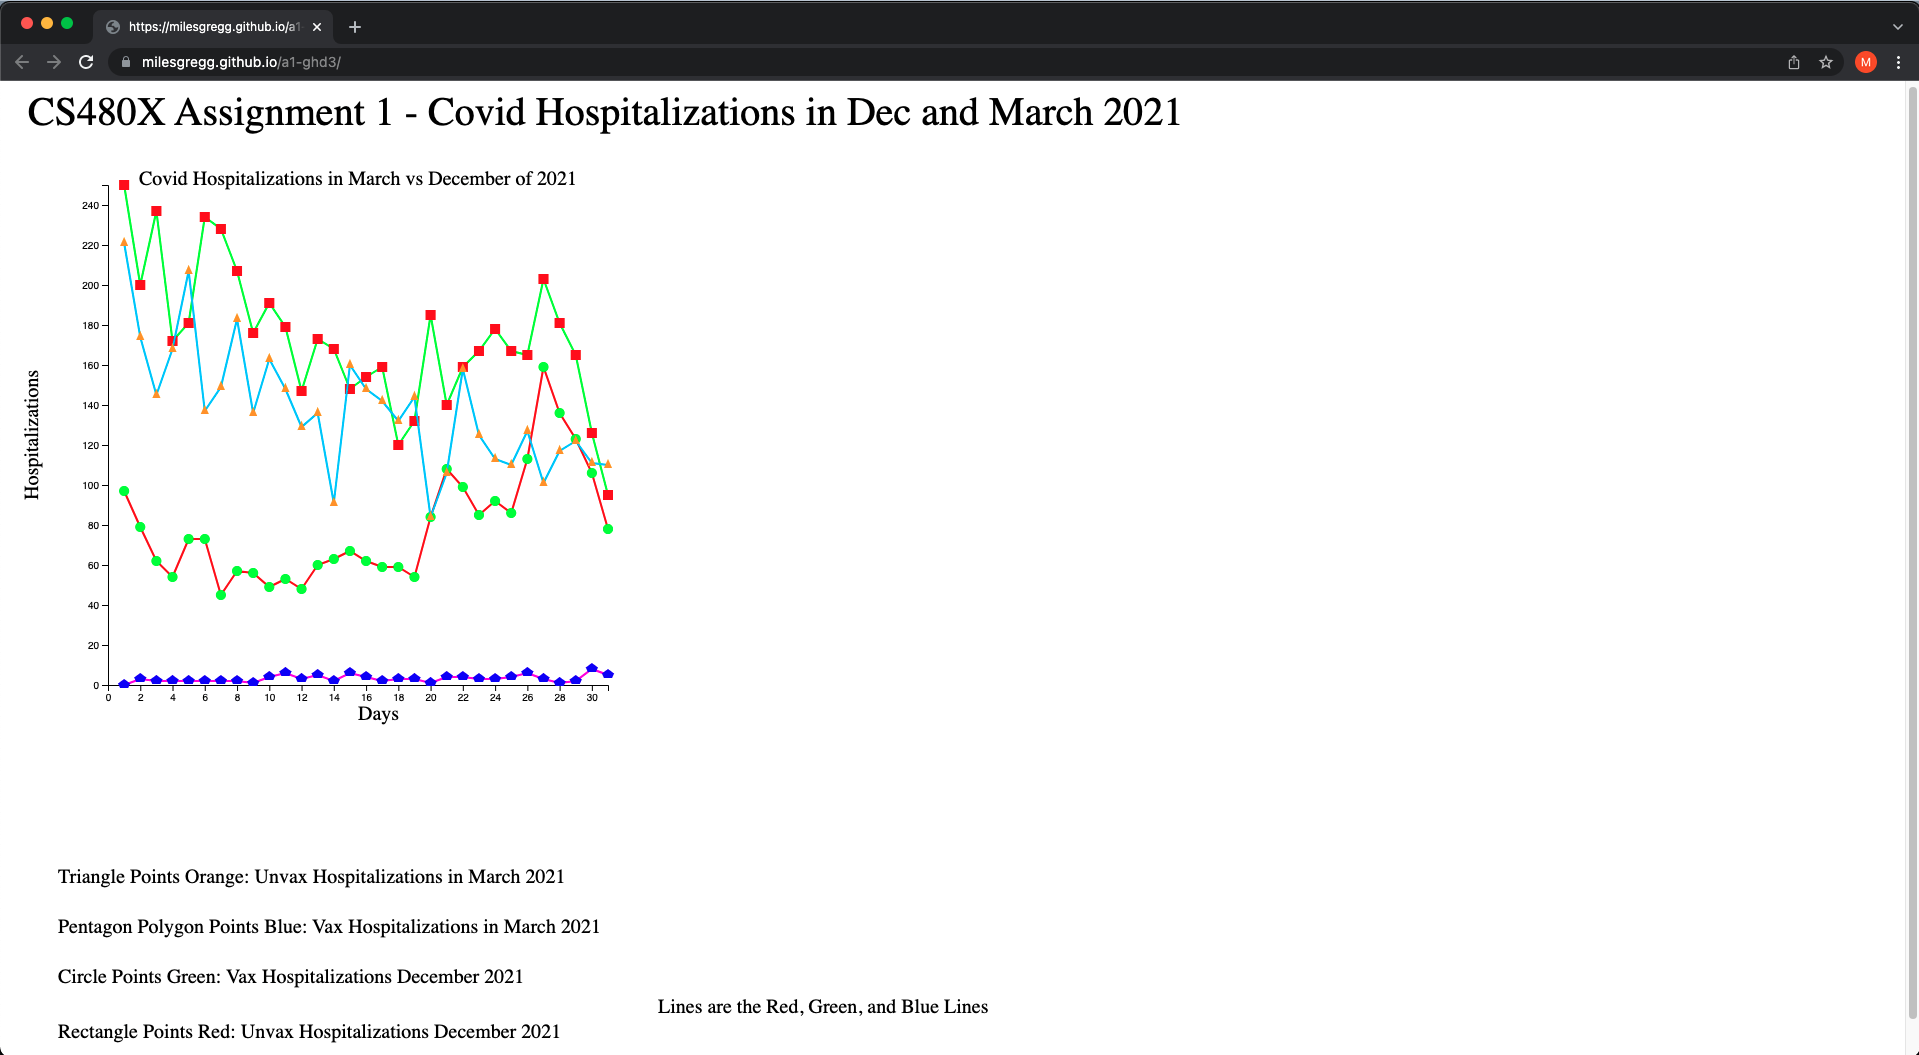
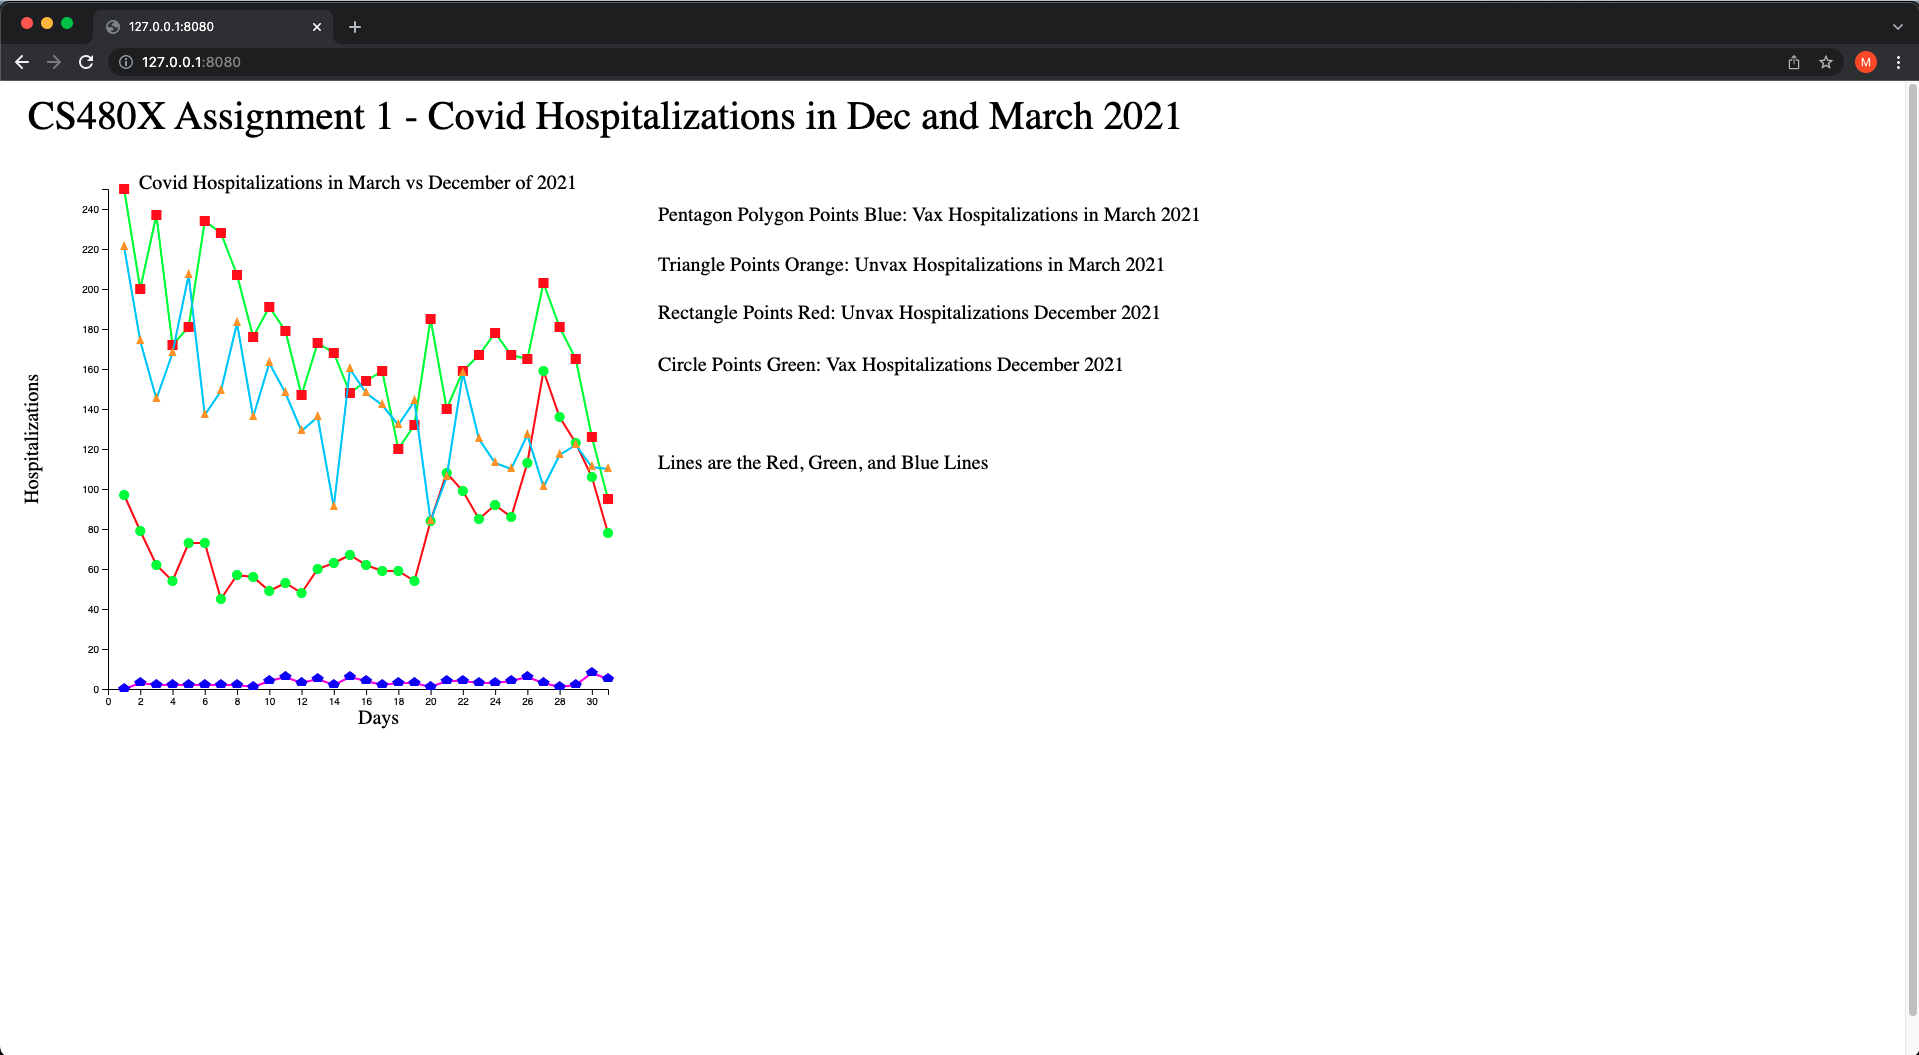
update readme and added pictures

diff --git a/index.html b/index.html
@@ -16,7 +16,7 @@
   var unvax_hos_march = [[1, 221],[2, 174],[3, 145],[4, 168],[5, 207],[6, 137],[7, 149],[8, 183],[9, 136],[10,163],[11,148],[12,129],[13,136],[14,91],[15,160],[16,148],[17,142],[18,132],[19,144],[20,84],[21,106],[22,158],[23,125],[24,113],[25,110],[26,127],[27,101],[28,117],[29,122],[30,111],[31,110]];
 
   var svg = d3.select("svg");
-  var xScaleGraph1 = d3.scaleLinear().domain([0, 31]).range([0, 500])
+  var xScaleGraph1 = d3.scaleLinear().domain([0, 31]).range([0, 500]);
   var yScaleGraph1 = d3.scaleLinear().domain([0, 250]).range([500, 0]);
   var g = svg.append("g").attr("transform", "translate(100, 100)");
 
@@ -150,35 +150,35 @@
   d3.select("svg")
     .append("text")
     .attr("x", 650)
-    .attr("y", window.innerHeight-50+2)
+    .attr("y", 380)
     .attr("font-size", "20")
     .text("Lines are the Red, Green, and Blue Lines");
 
   d3.select("svg")
     .append("text")
-    .attr("x", 50)
-    .attr("y", window.innerHeight-180+2)
+    .attr("x", 650)
+    .attr("y", 180+2)
     .attr("font-size", "20")
     .text("Triangle Points Orange: Unvax Hospitalizations in March 2021");
 
   d3.select("svg")
     .append("text")
-    .attr("x", 50)
-    .attr("y", window.innerHeight-130+2)
+    .attr("x", 650)
+    .attr("y", 130+2)
     .attr("font-size", "20")
     .text("Pentagon Polygon Points Blue: Vax Hospitalizations in March 2021");
 
   d3.select("svg")
     .append("text")
-    .attr("x", 50)
-    .attr("y", window.innerHeight-80+2)
+    .attr("x", 650)
+    .attr("y", 282)
     .attr("font-size", "20")
     .text("Circle Points Green: Vax Hospitalizations December 2021");
 
   d3.select("svg")
     .append("text")
-    .attr("x", 50)
-    .attr("y", window.innerHeight-23)
+    .attr("x", 650)
+    .attr("y", 230)
     .attr("font-size", "20")
     .text("Rectangle Points Red: Unvax Hospitalizations December 2021");
 </script>

diff --git a/README.md b/README.md
@@ -19,10 +19,38 @@ Links
 Technical Achievement Description
 ---
 
-For the techical achievement for this assignment I was successfully able to get data from the California Covid-19 Hospital Data Website: https://data.chhs.ca.gov/dataset/covid-19-hospital-data. This allowed me to get certain data from different months to plot using d3. I plotted the months of March and December of 2021.
+For the techical achievement for this assignment I was successfully able to get data from the California Covid-19 Hospital Data Website: https://data.chhs.ca.gov/dataset/covid-19-hospital-data. This allowed me to get certain data from different months to plot using d3. I plotted Covid-19 data in the state of California for  the months of March and December of 2021. Using Node.js http-server I was able to reload the webpage on port: http://127.0.0.1:8080/ whenever the HTML code would change. 
 
 ![alt text](https://github.com/MilesGregg/a1-ghd3/blob/master/main.png?raw=true)
 
 Design Achievement Description
 ---
 
+For the design achievement I was able to make a accurate graph that represents very important data for people to see. I wanted to see the Covid Hospitalizations for the two completely different months of 2021. For the different colors in my graph I was able to use Google Color Picker to choose different colors for different shpaes and lines.
+
+![alt text](https://github.com/MilesGregg/a1-ghd3/blob/master/color_picker.png?raw=true)
+
+The polygon shapes were very difficult to do since I had to make points around the current point on the graph. I did this with the following code below. Basically it has 5-3 different points around the current point we are trying to plot. The 5-3 varies based of the shape I am trying to plot. It will then draw the polyPoints variable on the svg using the polygon feature in d3js.
+
+```js
+var polyPoints = []
+var pendagonSide = [[-10, -10], [10, -10], [15, 5], [0, 20], [-15, 5]]
+for (var i = 0; i < vax_hos_march.length; i++) {
+    var outputString = "";
+    for (var j = 0; j < pendegonSide.length; j++) {
+        var x = vax_hos_march[i][0] + (pendegonSide[j][0]*0.025);
+        var y = vax_hos_march[i][1] + (pendegonSide[j][1]*0.15);
+        outputString += xScaleGraph1(x.toString()) + "," + yScaleGraph1(y.toString()) + " "
+    }
+    polyPoints.push(outputString);
+}
+
+svg.append('g')
+    .selectAll("polygon")
+    .data(polyPoints)
+    .enter()
+    .append("polygon")
+    .attr("points", function(d) { return d })
+    .attr("transform", "translate(100, 100)")
+    .style("fill", "#1900ff");
+```
